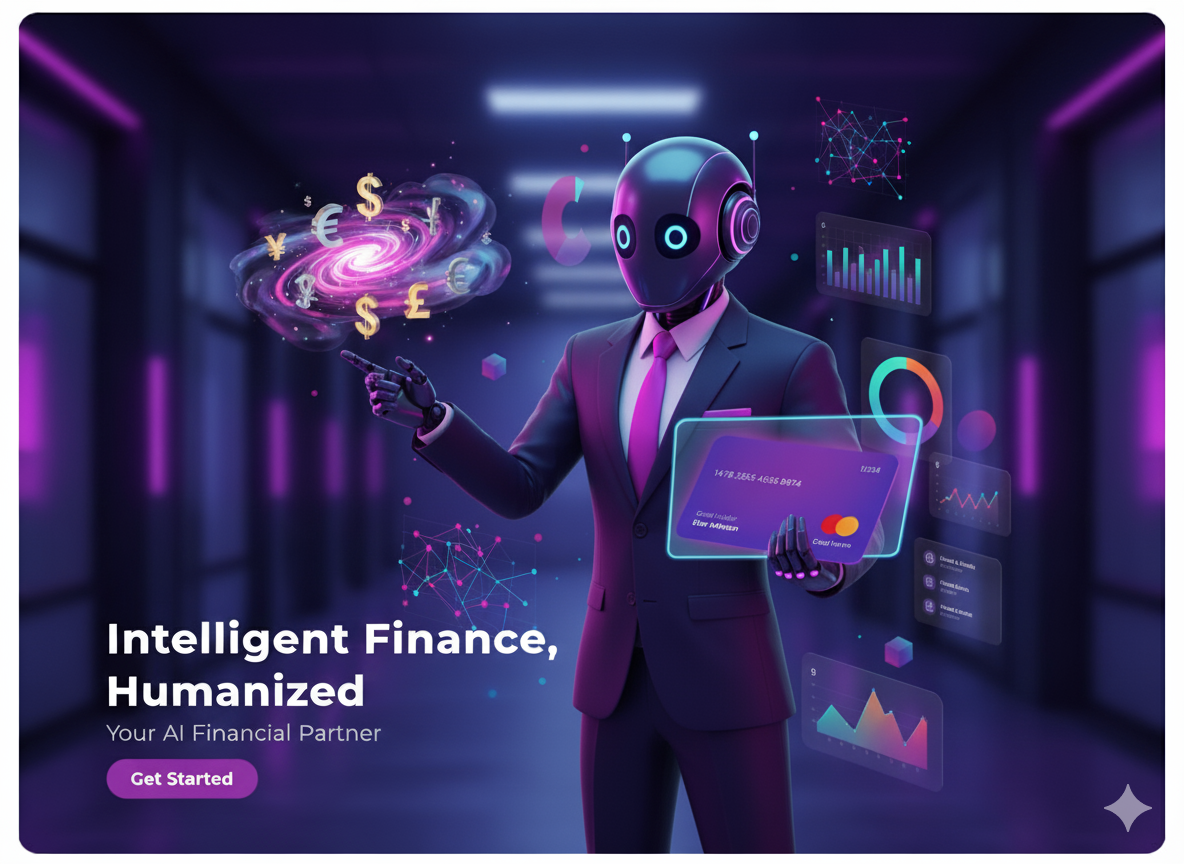
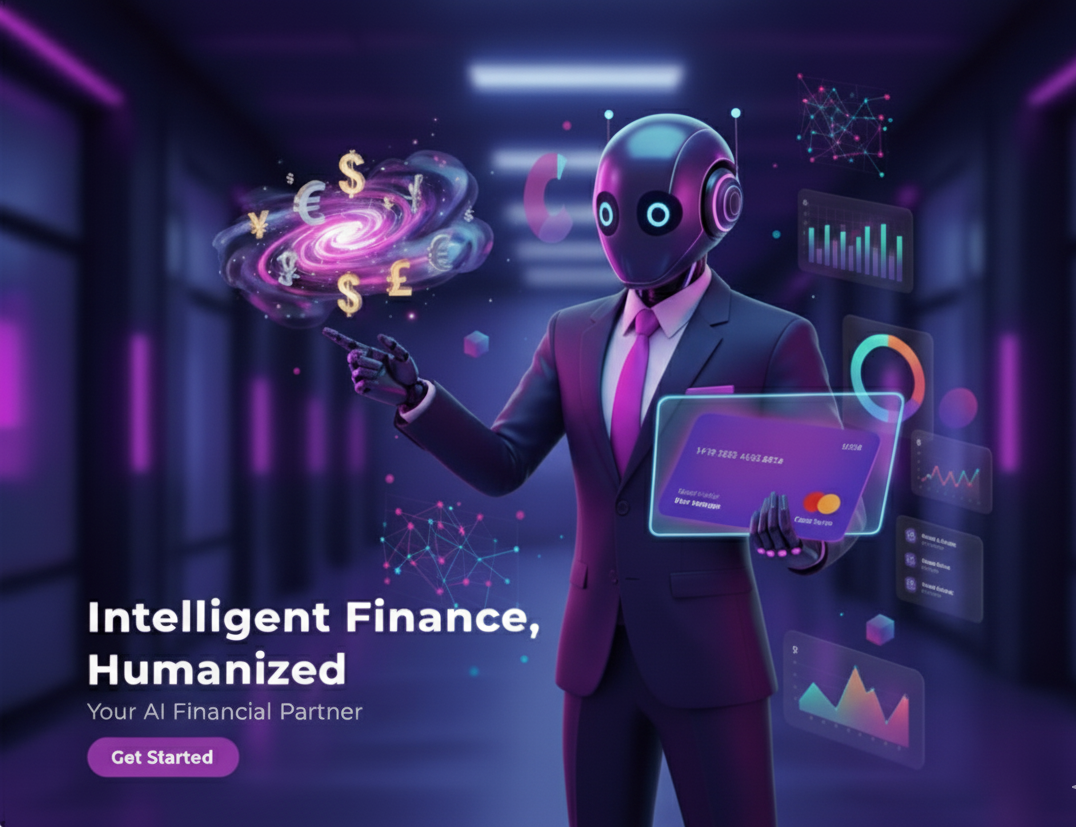
use new image

diff --git a/src/app/page.tsx b/src/app/page.tsx
@@ -1,3 +1,4 @@
+
 'use client';
 
 import { VoiceAgent } from '@/components/voice-agent';
@@ -11,7 +12,7 @@ import {
   AccordionTrigger,
 } from '@/components/ui/accordion';
 import Image from 'next/image';
-import { ArrowRight, Mic, Shield, Smartphone, TrendingUp } from 'lucide-react';
+import { ArrowRight, Mic, Shield, Smartphone, TrendingUp, Sparkles, Wallet, BarChart } from 'lucide-react';
 
 const faqItems = [
   {
@@ -44,7 +45,7 @@ const features = [
     color: 'from-primary to-violet-500'
   },
   {
-    icon: TrendingUp,
+    icon: BarChart,
     title: 'Smart Analytics',
     description: 'Visualize your spending patterns with intuitive charts',
     color: 'from-teal-400 to-cyan-500'
@@ -63,76 +64,114 @@ const features = [
   }
 ];
 
+const stats = [
+  { value: '10K+', label: 'Active Users' },
+  { value: '$2M+', label: 'Transactions Tracked' },
+  { value: '98%', label: 'User Satisfaction' },
+  { value: '24/7', label: 'Voice Support' }
+];
+
 export default function Home() {
   return (
-    <div className="flex flex-col min-h-screen w-full bg-background dark:bg-gradient-to-br dark:from-[#1C0E2B] dark:to-[#241539]">
+    <div className="flex flex-col min-h-screen w-full bg-background">
       <Header />
       <main className="flex-1">
         {/* Hero Section */}
-        <section className="relative w-full py-20 lg:py-32 overflow-hidden">
-          <div className="absolute inset-0 bg-gradient-to-br from-primary/10 to-pink-500/10" />
-          <div className="container relative mx-auto grid lg:grid-cols-2 gap-12 items-center px-4 md:px-6">
+        <section className="relative w-full py-12 lg:py-24 xl:py-32 overflow-hidden">
+          {/* Background Elements */}
+          <div className="absolute inset-0 bg-gradient-to-br from-primary/5 via-background to-pink-500/5 dark:from-primary/10 dark:to-pink-500/10" />
+          <div className="absolute top-10 left-10 w-72 h-72 bg-primary/10 rounded-full blur-3xl"></div>
+          <div className="absolute bottom-10 right-10 w-96 h-96 bg-pink-500/10 rounded-full blur-3xl"></div>
+          
+          <div className="container relative mx-auto grid lg:grid-cols-2 gap-8 lg:gap-16 items-center px-4 md:px-6">
             <div className="space-y-6 text-center lg:text-left">
-              <h1 className="text-4xl font-bold tracking-tight text-foreground sm:text-5xl lg:text-6xl">
+              <div className="inline-flex items-center gap-2 px-3 py-1 rounded-full bg-primary/10 border border-primary/20 text-primary text-sm mb-4">
+                <Sparkles className="w-4 h-4" />
+                AI-Powered Finance Management
+              </div>
+              
+              <h1 className="text-4xl font-bold tracking-tight text-foreground sm:text-5xl lg:text-6xl xl:text-7xl leading-tight">
                 Take Control of Your{' '}
                 <span className="bg-gradient-to-r from-primary to-pink-500 bg-clip-text text-transparent">
                   Finances
-                </span>{' '}
-                with WealthWise
+                </span>
               </h1>
-              <p className="max-w-xl mx-auto lg:mx-0 text-lg text-muted-foreground">
-                The smart, voice-powered way to track expenses, manage budgets,
-                and achieve your financial goals. Get started for free.
+              
+              <p className="text-xl text-muted-foreground max-w-2xl mx-auto lg:mx-0 leading-relaxed">
+                The smart, voice-powered way to track expenses, manage budgets, and achieve your financial goals.
               </p>
-              <div className="flex flex-col sm:flex-row gap-4 justify-center lg:justify-start">
-                <Button asChild size="lg" className="bg-primary text-primary-foreground hover:bg-primary/90 dark:bg-gradient-to-r dark:from-primary dark:to-violet-600 dark:hover:from-primary/90 dark:hover:to-violet-600/90 dark:text-white dark:border-0 dark:shadow-lg">
-                  <Link href="/signup" className="flex items-center">
-                    Get Started <ArrowRight className="ml-2 w-4 h-4" />
+
+              <div className="flex flex-col sm:flex-row gap-4 justify-center lg:justify-start pt-4">
+                <Button asChild size="lg" className="h-12 px-8 text-base bg-primary text-primary-foreground hover:bg-primary/90 shadow-lg hover:shadow-xl transition-all">
+                  <Link href="/signup" className="flex items-center gap-2">
+                    Get Started Free
+                    <ArrowRight className="w-4 h-4" />
                   </Link>
                 </Button>
-                <Button asChild size="lg" variant="outline" className="text-foreground border-border bg-background/50 hover:bg-accent hover:text-accent-foreground dark:border-card dark:text-white dark:bg-white/5 dark:hover:bg-white/10 dark:hover:text-white">
-                  <Link href="/dashboard">Go to Dashboard</Link>
+                <Button asChild size="lg" variant="outline" className="h-12 px-8 text-base border-2 border-border hover:bg-accent hover:text-accent-foreground">
+                  <Link href="/dashboard" className="flex items-center gap-2">
+                    <Wallet className="w-4 h-4" />
+                    View Dashboard
+                  </Link>
                 </Button>
               </div>
+
+              {/* Stats */}
+              <div className="grid grid-cols-2 lg:grid-cols-4 gap-6 pt-8 max-w-md mx-auto lg:mx-0">
+                {stats.map((stat, index) => (
+                  <div key={index} className="text-center lg:text-left">
+                    <div className="text-2xl font-bold text-foreground">{stat.value}</div>
+                    <div className="text-sm text-muted-foreground">{stat.label}</div>
+                  </div>
+                ))}
+              </div>
             </div>
-            <div className="relative w-full max-w-lg mx-auto lg:max-w-none h-64 lg:h-auto lg:aspect-video">
-              <div className="absolute -inset-4 bg-gradient-to-r from-primary to-pink-500 rounded-2xl blur-2xl opacity-30 dark:opacity-50"></div>
-                <Image
+
+            {/* Hero Image */}
+            <div className="relative aspect-video w-full">
+              <Image
                 src="/hero.png"
                 alt="AI robot interacting with financial data interfaces"
                 fill
-                className="relative object-contain rounded-xl shadow-2xl"
-                data-ai-hint="AI finance"
+                className="object-contain"
+                priority
+                sizes="(max-width: 768px) 100vw, 50vw"
+                data-ai-hint="AI finance assistant showing financial analytics dashboard"
               />
             </div>
           </div>
+          
         </section>
 
         {/* Features Section */}
-        <section className="py-20 lg:py-24">
+        <section className="py-20 lg:py-28">
           <div className="container mx-auto px-4 md:px-6">
             <div className="text-center mb-16">
-              <h2 className="text-3xl font-bold tracking-tight text-foreground sm:text-4xl">
+              <h2 className="text-3xl font-bold tracking-tight text-foreground sm:text-4xl lg:text-5xl mb-6">
                 Why Choose WealthWise?
               </h2>
-              <p className="mt-4 text-lg text-muted-foreground max-w-2xl mx-auto">
-                Experience the future of personal finance management with our innovative features
+              <p className="text-xl text-muted-foreground max-w-3xl mx-auto leading-relaxed">
+                Experience the future of personal finance management with our innovative features designed for modern life.
               </p>
             </div>
-            <div className="grid grid-cols-1 md:grid-cols-2 lg:grid-cols-4 gap-8">
+            
+            <div className="grid grid-cols-1 md:grid-cols-2 lg:grid-cols-4 gap-6 lg:gap-8">
               {features.map((feature, index) => (
                 <div
                   key={feature.title}
-                  className="group relative bg-card rounded-2xl p-6 hover:bg-accent/50 transition-all duration-300 hover:scale-105 hover:shadow-2xl hover:shadow-primary/10"
+                  className="group relative bg-card/50 backdrop-blur-sm rounded-3xl p-8 border border-border hover:border-primary/20 transition-all duration-500 hover:scale-105 hover:shadow-2xl hover:shadow-primary/5"
                 >
-                   <div className={`absolute -inset-px bg-gradient-to-r ${feature.color} rounded-2xl opacity-0 group-hover:opacity-50 transition-opacity duration-300`}></div>
-                  <div className={`relative inline-flex items-center justify-center w-12 h-12 rounded-lg bg-gradient-to-r ${feature.color} mb-4`}>
-                    <feature.icon className="w-6 h-6 text-white" />
+                  <div className={`absolute inset-0 bg-gradient-to-br ${feature.color} rounded-3xl opacity-0 group-hover:opacity-5 transition-opacity duration-500`}></div>
+                  
+                  <div className={`relative inline-flex items-center justify-center w-14 h-14 rounded-2xl bg-gradient-to-r ${feature.color} mb-6 group-hover:scale-110 transition-transform duration-300`}>
+                    <feature.icon className="w-7 h-7 text-white" />
                   </div>
-                  <h3 className="relative text-xl font-semibold text-card-foreground mb-2">
+                  
+                  <h3 className="relative text-xl font-semibold text-card-foreground mb-3">
                     {feature.title}
                   </h3>
-                  <p className="relative text-muted-foreground">
+                  
+                  <p className="relative text-muted-foreground leading-relaxed">
                     {feature.description}
                   </p>
                 </div>
@@ -142,21 +181,24 @@ export default function Home() {
         </section>
 
         {/* Voice Agent Section */}
-        <section id="voice-agent" className="py-20 lg:py-24 bg-card/50">
+        <section id="voice-agent" className="py-20 lg:py-28 bg-gradient-to-b from-card/30 to-background">
           <div className="container mx-auto px-4 md:px-6">
-            <div className="w-full max-w-4xl mx-auto">
-              <div className="text-center mb-12">
-                <div className="inline-flex items-center justify-center w-16 h-16 rounded-full bg-gradient-to-r from-primary to-violet-600 mb-4">
-                  <Mic className="w-8 h-8 text-white" />
+            <div className="w-full max-w-6xl mx-auto">
+              <div className="text-center mb-16">
+                <div className="inline-flex items-center justify-center w-20 h-20 rounded-3xl bg-gradient-to-r from-primary to-violet-600 mb-6 shadow-lg">
+                  <Mic className="w-10 h-10 text-white" />
                 </div>
-                <h2 className="text-3xl font-bold tracking-tight text-foreground sm:text-4xl">
+                
+                <h2 className="text-3xl font-bold tracking-tight text-foreground sm:text-4xl lg:text-5xl mb-6">
                   Meet Wally, Your Voice Assistant
                 </h2>
-                <p className="mt-4 text-lg text-muted-foreground">
-                  Managing your money is now as easy as talking. Just tell Wally about your transactions.
+                
+                <p className="text-xl text-muted-foreground max-w-2xl mx-auto leading-relaxed">
+                  Managing your money is now as easy as talking. Just tell Wally about your transactions and watch the magic happen.
                 </p>
               </div>
-              <div className="bg-card rounded-2xl p-8 border border-border shadow-2xl shadow-primary/10">
+              
+              <div className="bg-card/50 backdrop-blur-sm rounded-3xl p-8 lg:p-12 border border-border shadow-2xl shadow-primary/5">
                 <VoiceAgent />
               </div>
             </div>
@@ -164,28 +206,30 @@ export default function Home() {
         </section>
 
         {/* FAQ Section */}
-        <section id="faq" className="py-20 lg-py-24">
+        <section id="faq" className="py-20 lg:py-28">
           <div className="container mx-auto px-4 md:px-6">
-            <div className="mx-auto max-w-3xl text-center">
-              <h2 className="text-3xl font-bold tracking-tight text-foreground sm:text-4xl">
+            <div className="mx-auto max-w-4xl text-center">
+              <h2 className="text-3xl font-bold tracking-tight text-foreground sm:text-4xl lg:text-5xl mb-6">
                 Frequently Asked Questions
               </h2>
-              <p className="mt-4 text-lg text-muted-foreground">
-                Find answers to common questions about WealthWise.
+              <p className="text-xl text-muted-foreground max-w-2xl mx-auto leading-relaxed">
+                Everything you need to know about WealthWise and how it can transform your financial life.
               </p>
             </div>
-            <div className="mx-auto mt-12 max-w-3xl">
-              <Accordion type="single" collapsible className="w-full">
+            
+            <div className="mx-auto mt-16 max-w-3xl">
+              <Accordion type="single" collapsible className="w-full space-y-4">
                 {faqItems.map((item, index) => (
                   <AccordionItem 
                     value={`item-${index}`} 
                     key={item.question}
-                    className="bg-card border-border rounded-lg px-6 mb-4 hover:bg-accent/50 transition-colors"
+                    className="bg-card/50 backdrop-blur-sm rounded-2xl px-6 border border-border hover:border-primary/20 transition-colors"
                   >
-                    <AccordionTrigger className="text-lg font-medium text-left text-card-foreground hover:text-primary py-4">
+                    <AccordionTrigger className="text-lg font-semibold text-card-foreground hover:text-primary py-6 text-left">
                       {item.question}
                     </AccordionTrigger>
-                    <AccordionContent className="text-base text-muted-foreground pb-4">
+                    
+                    <AccordionContent className="text-base text-muted-foreground pb-6 leading-relaxed">
                       {item.answer}
                     </AccordionContent>
                   </AccordionItem>
@@ -196,41 +240,61 @@ export default function Home() {
         </section>
 
         {/* CTA Section */}
-        <section className="py-20 lg:py-24">
+        <section className="py-20 lg:py-28">
           <div className="container mx-auto px-4 md:px-6 text-center">
-            <div className="max-w-4xl mx-auto bg-gradient-to-r from-primary via-violet-600 to-pink-500 rounded-3xl p-12">
-              <h2 className="text-3xl font-bold tracking-tight text-white sm:text-4xl mb-4">
-                Ready to Transform Your Financial Journey?
-              </h2>
-              <p className="text-lg text-white/90 mb-8 max-w-2xl mx-auto">
-                Join thousands of users who are already taking control of their finances with WealthWise.
-              </p>
-              <Button asChild size="lg" className="bg-white text-primary hover:bg-gray-100 border-0 shadow-lg">
-                <Link href="/signup" className="flex items-center">
-                  Start Your Free Trial <ArrowRight className="ml-2 w-4 h-4" />
-                </Link>
-              </Button>
+            <div className="max-w-5xl mx-auto bg-gradient-to-r from-primary via-violet-600 to-pink-500 rounded-2xl p-12 lg:p-16 relative overflow-hidden">
+              {/* Background Pattern */}
+              <div className="absolute inset-0 bg-[radial-gradient(circle_at_center,_var(--tw-gradient-stops))] from-white/10 to-transparent"></div>
+              
+              <div className="relative z-10">
+                <h2 className="text-3xl font-bold tracking-tight text-white sm:text-4xl lg:text-5xl mb-6">
+                  Ready to Transform Your Financial Journey?
+                </h2>
+                
+                <p className="text-xl text-white/90 mb-8 max-w-2xl mx-auto leading-relaxed">
+                  Join thousands of users who are already taking control of their finances with WealthWise. Start your free trial today.
+                </p>
+                
+                <Button asChild size="lg" className="h-14 px-10 text-base bg-white text-primary hover:bg-gray-50 border-0 shadow-2xl hover:scale-105 transition-transform">
+                  <Link href="/signup" className="flex items-center gap-3">
+                    Start Your Free Trial
+                    <ArrowRight className="w-5 h-5" />
+                  </Link>
+                </Button>
+                
+                <p className="text-white/70 text-sm mt-6">
+                  No credit card required • 14-day free trial • Cancel anytime
+                </p>
+              </div>
             </div>
           </div>
         </section>
       </main>
 
-      <footer className="py-8 border-t border-border">
-        <div className="container mx-auto px-4 md:px-6 text-center text-muted-foreground">
-          <p>&copy; {new Date().getFullYear()} WealthWise. All rights reserved.</p>
-          <div className="mt-4 flex justify-center space-x-6">
-            <Link href="/privacy" className="text-muted-foreground hover:text-foreground transition-colors">
-              Privacy Policy
-            </Link>
-            <Link href="/terms" className="text-muted-foreground hover:text-foreground transition-colors">
-              Terms of Service
-            </Link>
-            <Link href="/contact" className="text-muted-foreground hover:text-foreground transition-colors">
-              Contact
-            </Link>
+      {/* Footer */}
+      <footer className="py-12 border-t border-border bg-card/30">
+        <div className="container mx-auto px-4 md:px-6">
+          <div className="text-center">
+            <p className="text-muted-foreground mb-6">
+              &copy; {new Date().getFullYear()} WealthWise. All rights reserved.
+            </p>
+            
+            <div className="flex justify-center space-x-8">
+              <Link href="/privacy" className="text-muted-foreground hover:text-foreground transition-colors duration-200">
+                Privacy Policy
+              </Link>
+              <Link href="/terms" className="text-muted-foreground hover:text-foreground transition-colors duration-200">
+                Terms of Service
+              </Link>
+              <Link href="/contact" className="text-muted-foreground hover:text-foreground transition-colors duration-200">
+                Contact
+              </Link>
+            </div>
           </div>
         </div>
       </footer>
     </div>
   );
 }
+
+    
